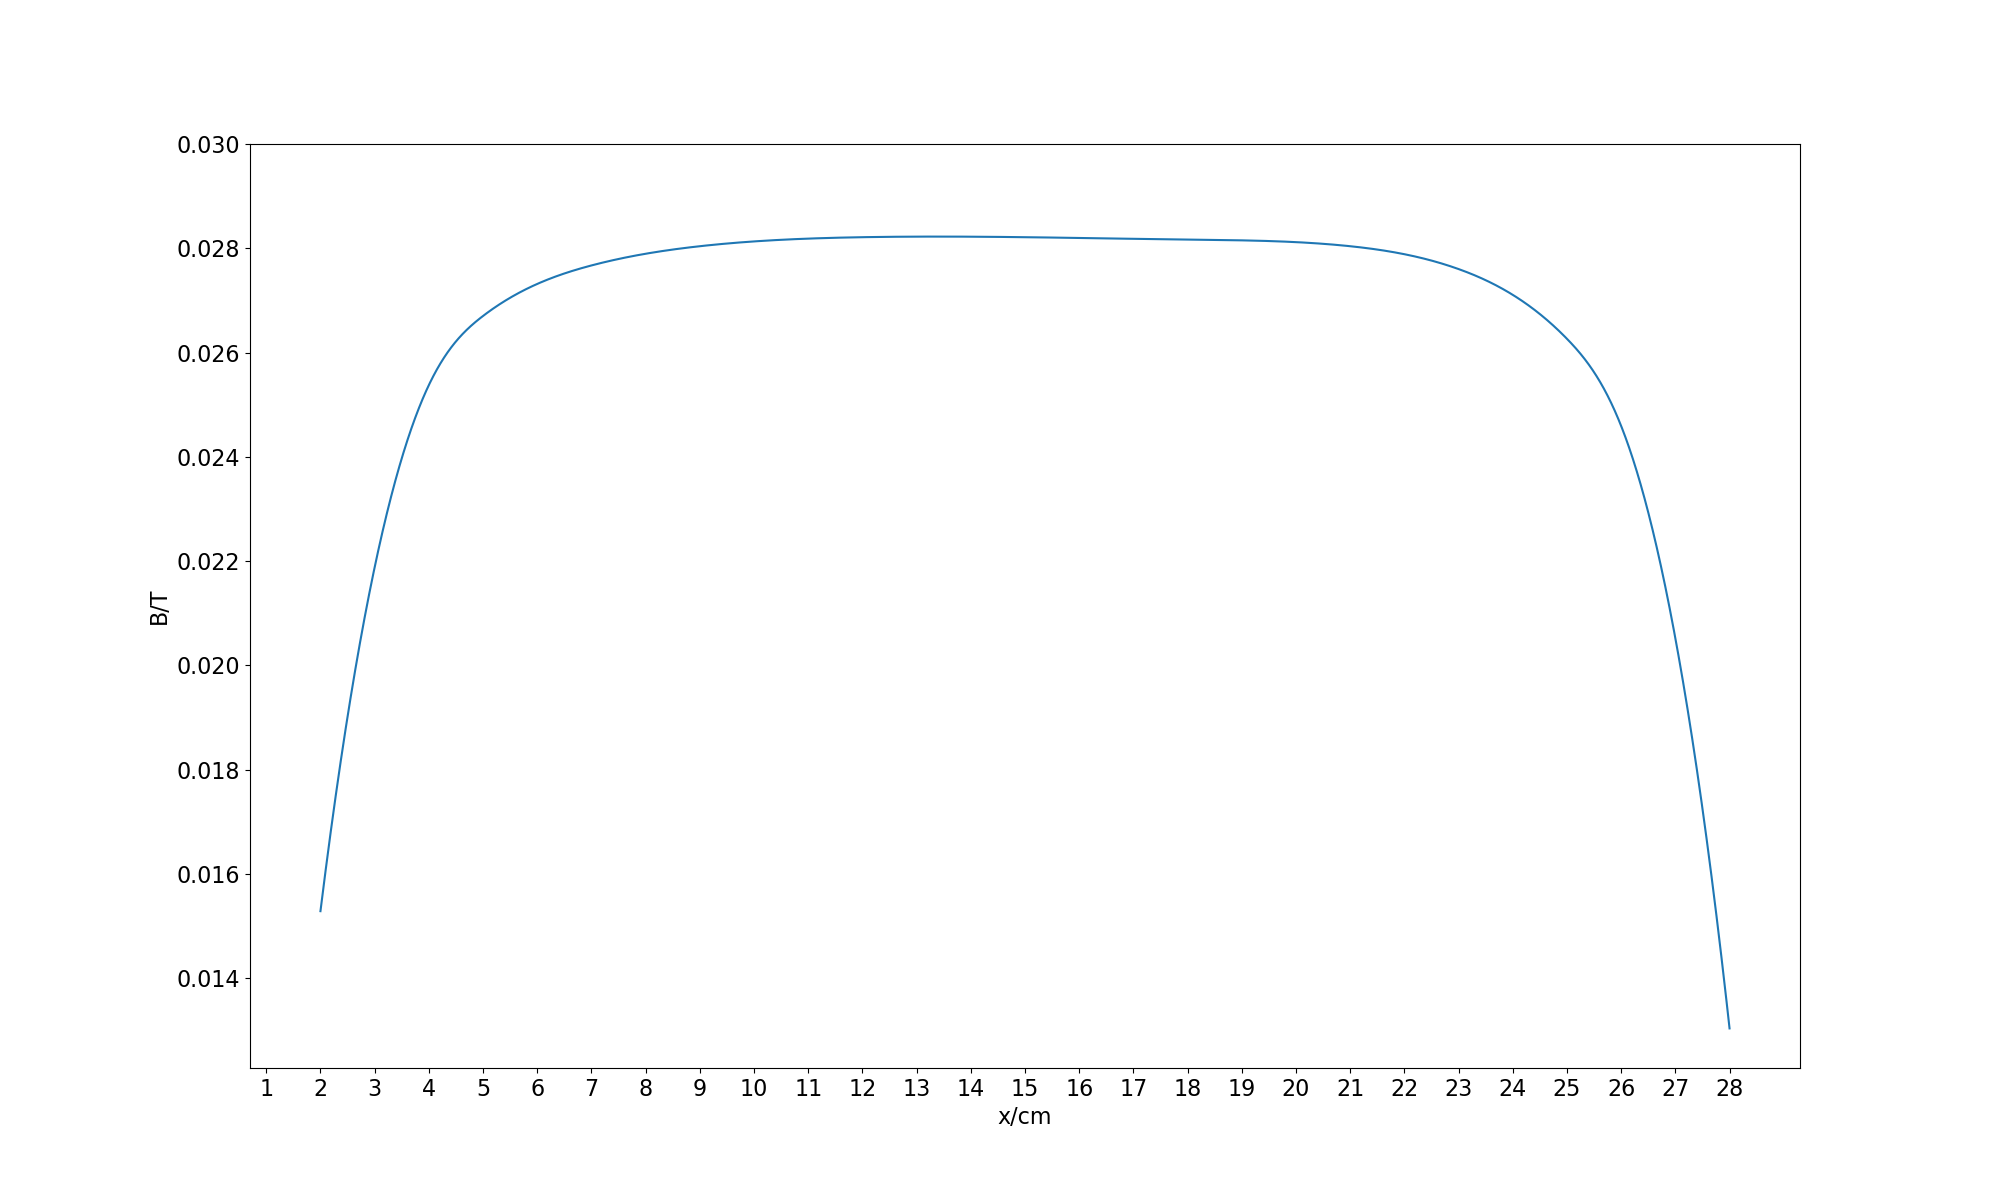
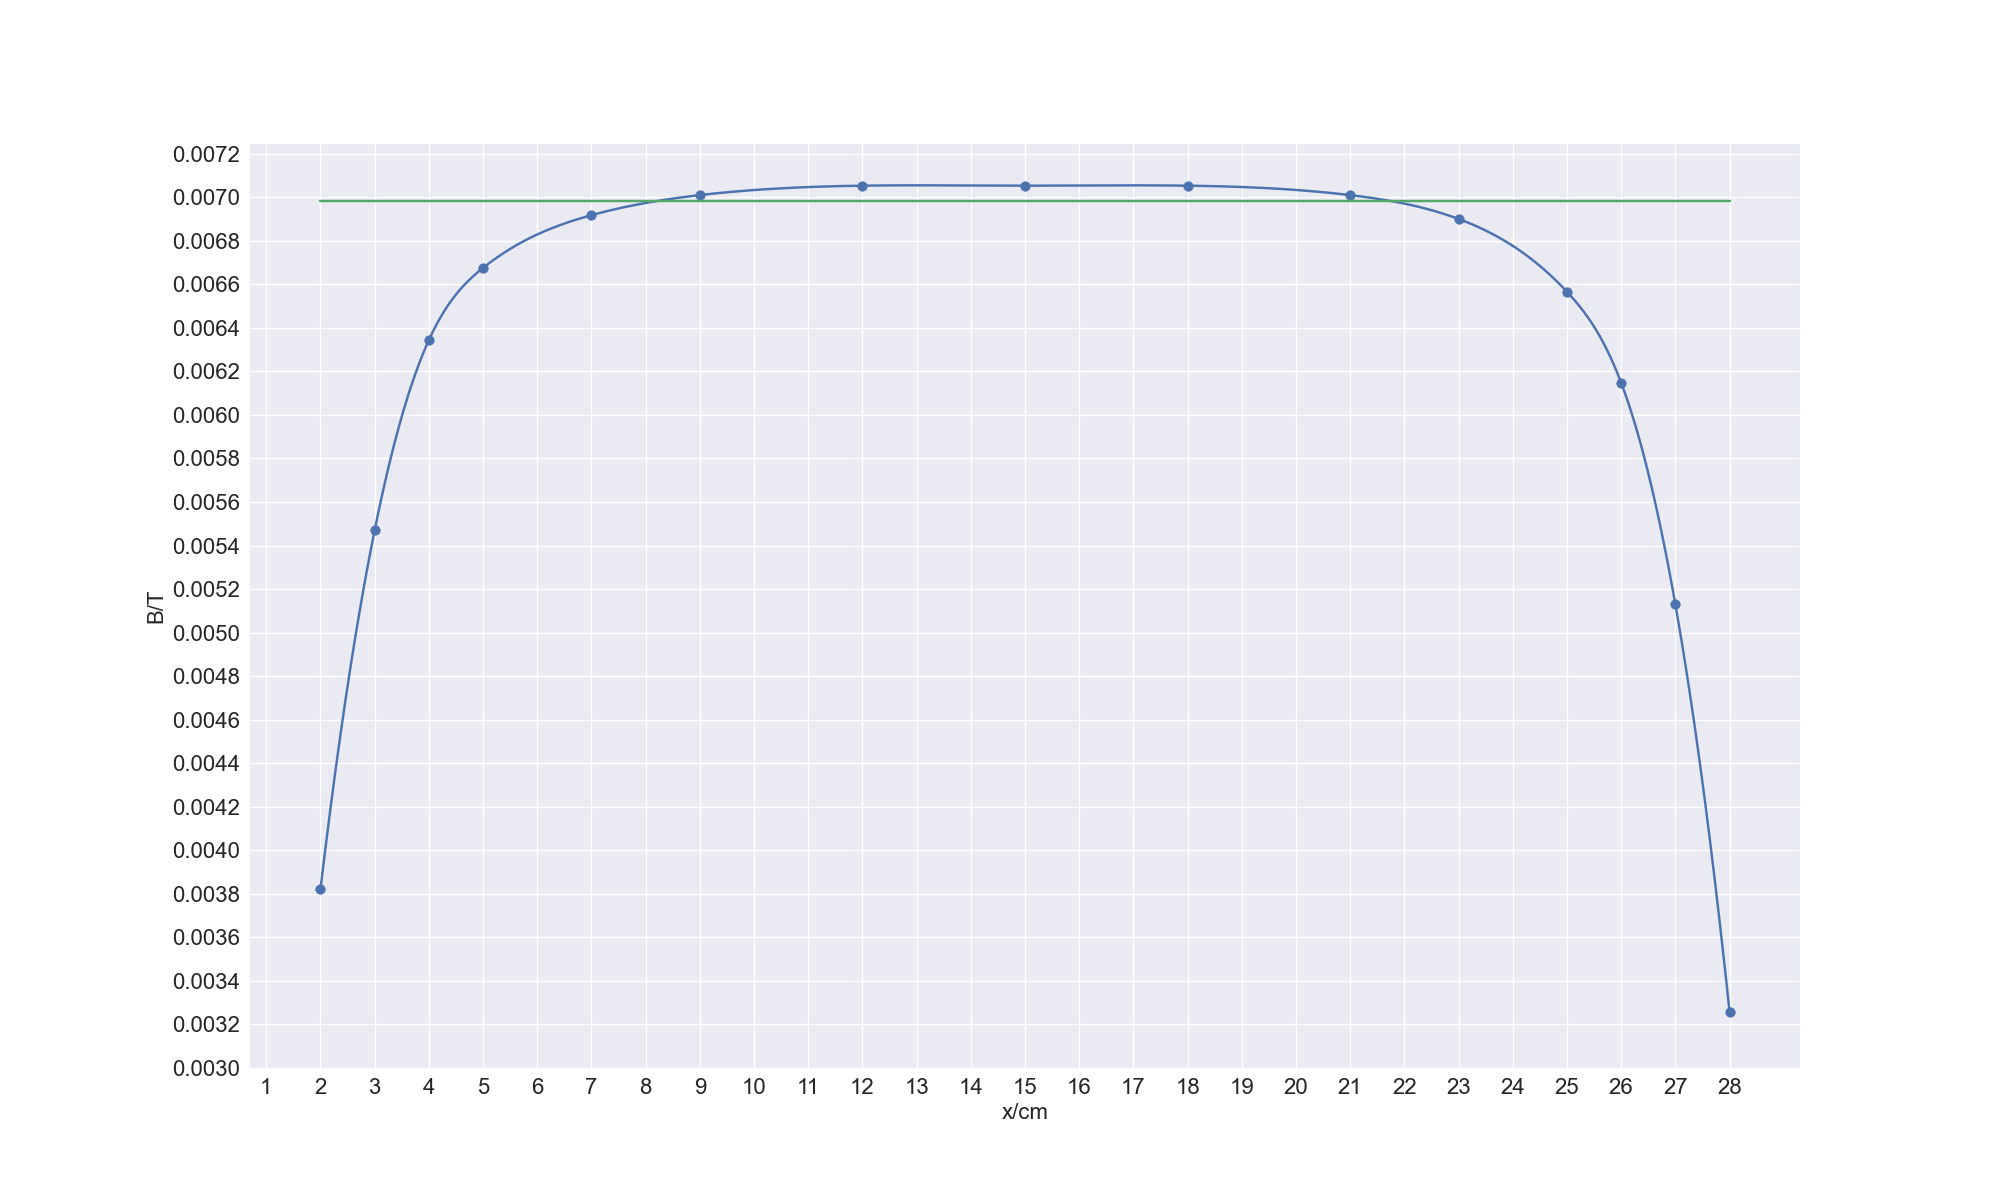
third commit

diff --git a/霍尔效应/draw_B-X.py b/霍尔效应/draw_B-X.py
@@ -8,17 +8,18 @@ IH = 5.00   # mA
 
 
 U1 = [-2.89, -4.24, -4.88, -5.17, -5.38, -5.46, -5.50, -5.50, -5.50, -5.46, -5.36, -5.07, -4.72, -3.84, -2.18]
-U2 = [4.04, 5.43, 6.11, 6.40, 6.62, 6.70, 6.74, 6.74, 6.7,6.70,6.61, 6.32, 5.94, 5.06, 3.45]
+U2 = [4.04, 5.43, 6.11, 6.40, 6.62, 6.70, 6.74, 6.74, 6.74,6.70,6.61, 6.32, 5.94, 5.06, 3.45]
 U3 = [-3.46, -5.10, -6.14, -6.43, -6.63, -6.71, -6.74, -6.74, -6.74, -6.70, -6.61, -6.32, -5.97, -5.08, -3.46]
 U4 = [2.86, 4.20, 4.87, 5.15, 5.36, 5.44, 5.48, 5.48, 5.48, 5.45, 5.35, 5.06, 4.69, 3.81, 2.21]
 
 
-U = list(map(lambda a,b,c,d:a-b+c-d, U1,U2,U3,U4))
+U = list(map(lambda a,b,c,d:(a-b+c-d)/4, U1,U2,U3,U4))
 
-if U[8]<0:
-    U = [-x for x in U]
+U = [-x for x in U if x<0]
+print(U)
 
 
+plt.style.use("seaborn")
 plt.figure(figsize = (20,12))
 
 plt.xlabel("x/cm", fontsize=16)
@@ -28,16 +29,31 @@ plt.ylabel("B/T", fontsize=16)
 gap = np.linspace(2,28,26000)
 
 B = [x/(KH*IH) for x in U]
+print(B)
 B_value = np.array(B)
 x_value = np.array([2,3,4,5,7,9,12,15,18,21,23,25,26,27,28])
+
+B_min = [0.007053*0.99 for _ in B]
+
 
 model = make_interp_spline(x_value,B_value)
 line = model(gap)
 
 
 plt.plot(gap, line)
+plt.scatter(x_value,B_value)
+plt.plot(x_value,B_min)
 plt.xticks(np.arange(1,29,1), fontsize=16)
-plt.yticks(np.arange(0.014,0.032,0.002), fontsize=16)
+plt.yticks(np.arange(0.0030,0.0074,0.0002), fontsize=16)
+
+tolerance = 1e-7  # 定义容差值
+
+for index, value in enumerate(line):
+    if abs(value - B_min[0]) < tolerance:
+        intersection = gap[index]
+        print("Intersection:", intersection)
+
+        
 plt.savefig("./B-X.png")
 plt.show()
 

diff --git a/霍尔效应/draw_Kh.py b/霍尔效应/draw_Kh.py
@@ -1,8 +1,13 @@
 import matplotlib.pyplot as plt
 import numpy as np
 from scipy.interpolate import make_interp_spline
+from math import *
 
-
+L = 0.26 # m
+N = 3000
+D = 0.035 # m
+Ih = (5.00)*(10**(-3)) # A
+u = 4*np.pi*(10**(-7))
 
 U1 = [0.60, -0.60, -1.85, -3.08, -4.30, -5.53, -6.76, -7.97, -9.21, -10.43, -11.66]
 U2 = [-0.61, 0.60, 1.82, 3.05, 4.28, 5.51, 6.74, 7.97, 9.20, 10.43, 11.65]
@@ -10,13 +15,15 @@ U3 = [-0.61, -1.85, -3.08, -4.30, -5.54, -6.77, -7.99, -9.22, -10.45, -11.67, -1
 U4 = [-0.62, 0.58, 1.81, 3.03, 4.26, 5.49, 6.71, 7.95, 9.18, 10.42, 11.64]
 
 U = list(map(lambda a,b,c,d: (a-b+c-d)/4, U1,U2,U3,U4))
+U = [abs(x) for x in U]
 print(U)
 
-if U[8]<0:
-    U = [-x for x in U]
+plt.style.use("seaborn")
 
-plt.xlabel("Im")
-plt.ylabel("U")
+plt.figure(figsize=(15,9))
+
+plt.xlabel("Im",fontsize=20)
+plt.ylabel("Uh",fontsize=20)
 
 gap = np.linspace(0,1000,10000)
 u_value = np.array(U)
@@ -25,9 +32,19 @@ Im_value = np.array(range(0,1100,100))
 model = make_interp_spline(Im_value,u_value)
 line = model(gap)
 
+# plt.plot(u_value,Im_value)
+plt.xticks(np.arange(0,1100,50),fontsize=16)
+plt.yticks(np.arange(0,13,0.5),fontsize=16)
 plt.plot(gap,line)
+plt.scatter(Im_value,u_value)
 # plt.show()
 plt.savefig("./U-Im.png")
+
+K = (U[10] - U[1])/900
+print("K=",K)
+Kh = (sqrt((L**2)+(D**2))/(u*N*Ih))*K
+print("Kh=",Kh)
 plt.show()
+
 
 
